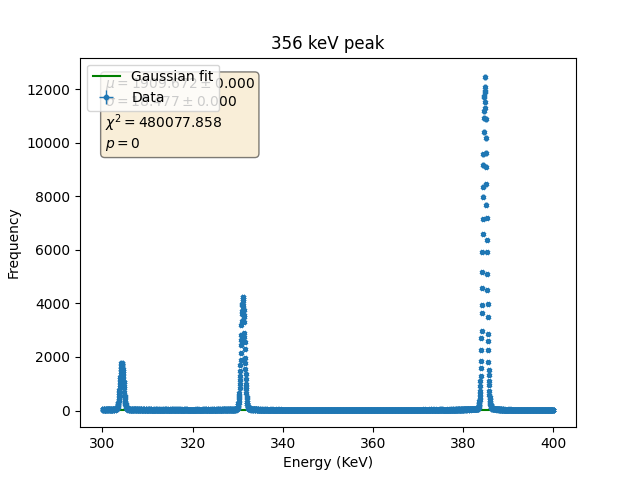
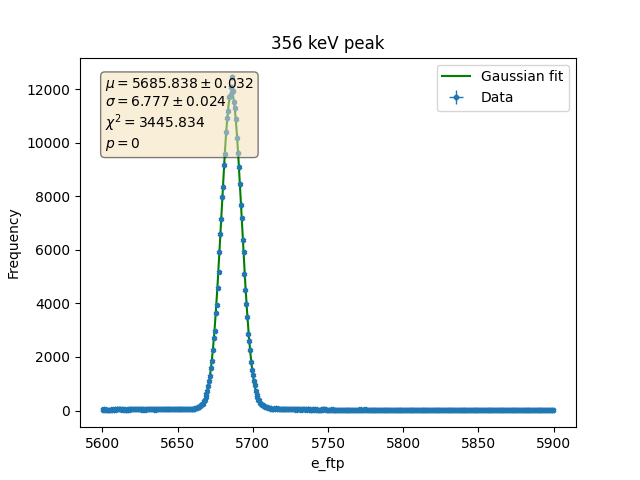
update

diff --git a/Ba133_analysis/Ba133_analysis.py b/Ba133_analysis/Ba133_analysis.py
@@ -30,6 +30,26 @@ def main():
     plt.xlim(0, 40000)
     plt.savefig("/lfs/l1/legend/users/aalexander/HADES_detchar/Ba133_analysis/plots/e_ftp.png")
 
+    plt.figure()
+    counts, bins, bars = plt.hist(key_data, bins=100000)
+    plt.yscale("log")
+    plt.xlabel("e_ftp")
+    plt.ylabel("Frequency")
+    plt.xlim(0, 7000)
+    plt.savefig("/lfs/l1/legend/users/aalexander/HADES_detchar/Ba133_analysis/plots/e_ftp_zoom.png")
+
+
+    #Calibrate via known peaks
+
+    #356 keV
+    xmin_356, xmax_356 = 5625, 5750
+    plt.figure()
+    mu_ep, sigma_ep, mu_err_ep, sigma_err_ep = fit_peak(key, bins, counts, xmin_356, xmax_356)
+    plt.title("356 keV peak")
+    plt.savefig("/lfs/l1/legend/users/aalexander/HADES_detchar/Ba133_analysis/plots/356keV_peak.png")
+
+
+
 
     #Calibrate - use linear calibration coefficients from previous work
     m, m_err = 15.786, 0.007
@@ -57,12 +77,12 @@ def main():
 
     #fit peaks for dlt observable
 
-    print("")
-    print("356 KeV peak: ")
-    xmin_356, xmax_356 = 300., 400. #by inspection
-    mu_ep, sigma_ep, mu_err_ep, sigma_err_ep = fit_peak("Energy (KeV)", bins_cal, counts, xmin_356, xmax_356)
-    plt.title("356 keV peak")
-    plt.savefig("/lfs/l1/legend/users/aalexander/HADES_detchar/Ba133_analysis/plots/356keV_peak.png")
+    # print("")
+    # print("356 KeV peak: ")
+    # xmin_356, xmax_356 = 300., 400. #by inspection  #380-390
+    # mu_ep, sigma_ep, mu_err_ep, sigma_err_ep = fit_peak("Energy (KeV)", bins_cal, counts, xmin_356, xmax_356)
+    # plt.title("356 keV peak")
+    # plt.savefig("/lfs/l1/legend/users/aalexander/HADES_detchar/Ba133_analysis/plots/356keV_peak.png")
 
 
 
